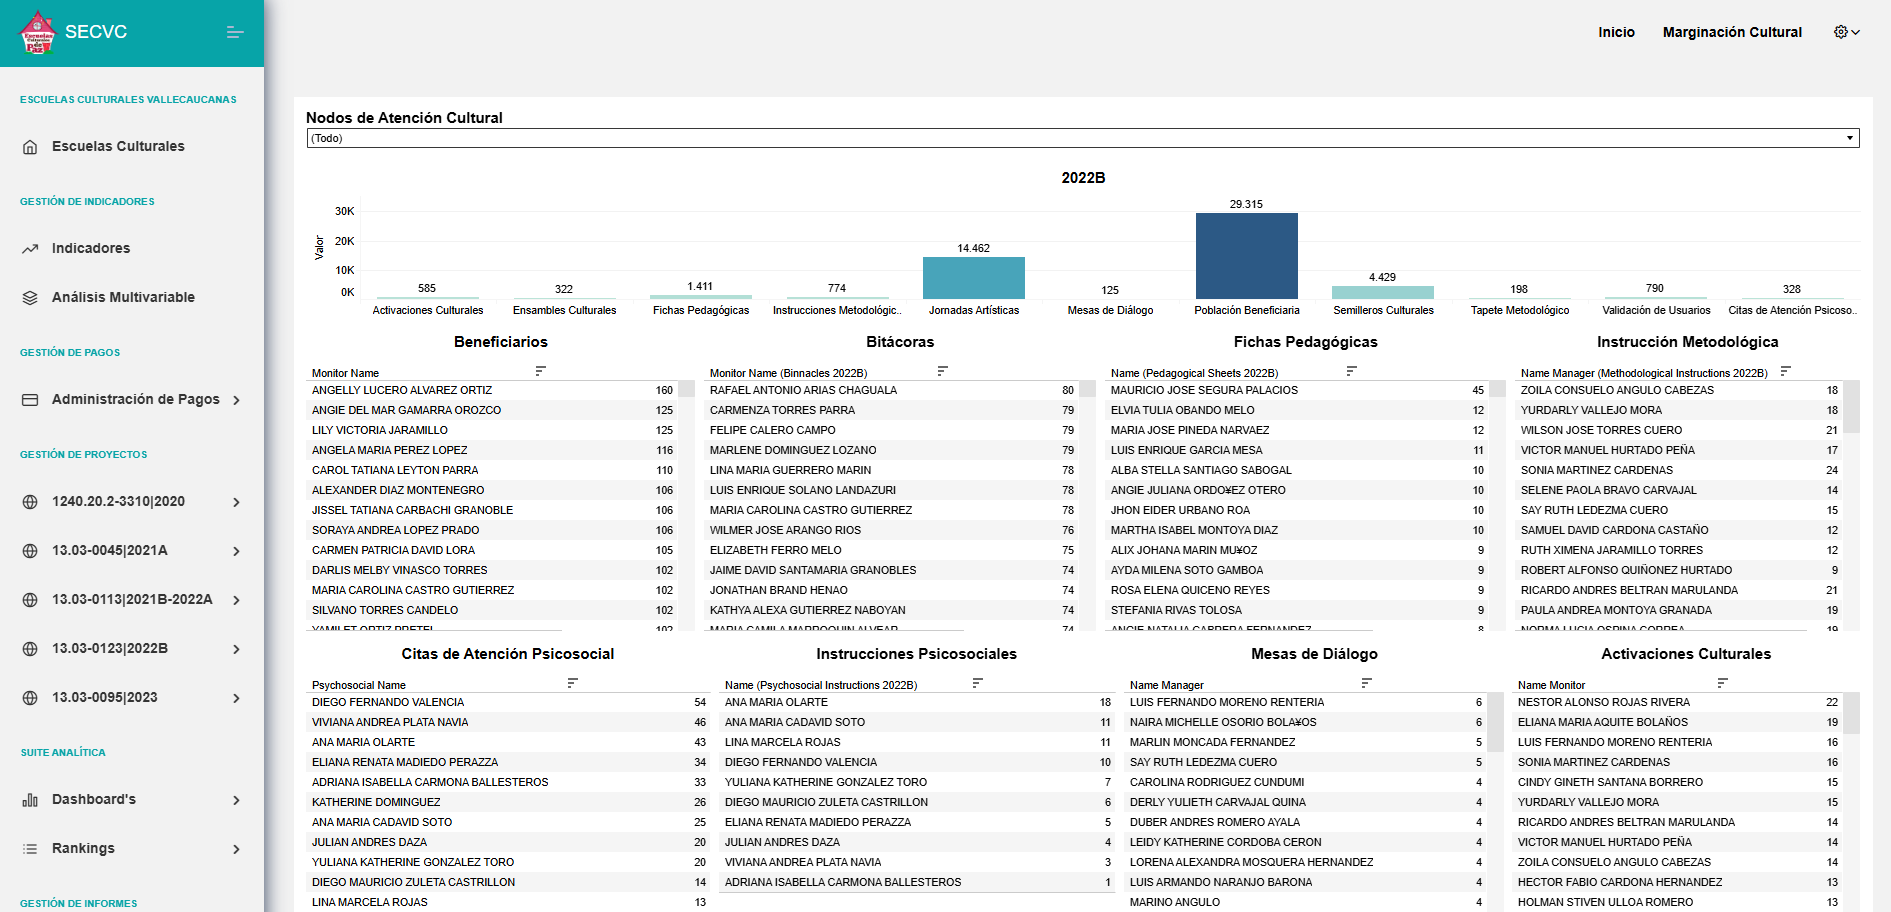
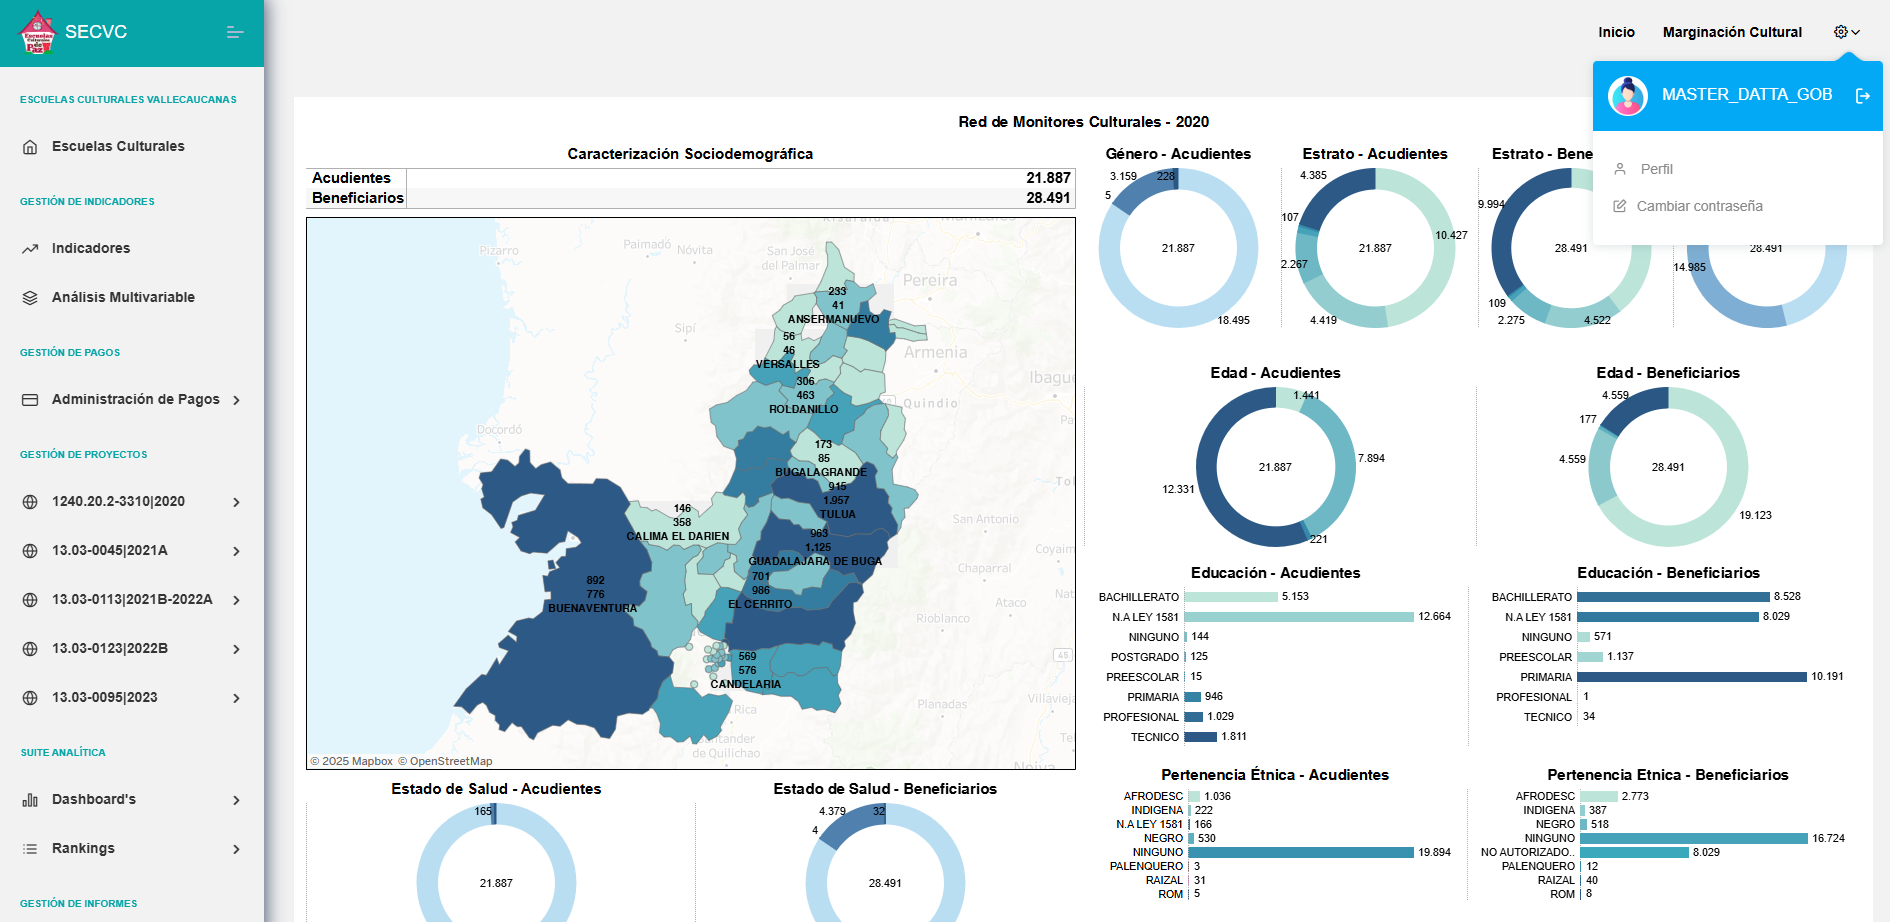
Actualizando portfolium

diff --git a/monitoring-contracts.html b/monitoring-contracts.html
@@ -153,19 +153,15 @@
               <div class="swiper-wrapper align-items-center">
 
                 <div class="swiper-slide">
-                  <img src="assets/img/portfolio/expb1.png" alt="" class="bi bi-zoom-in">
+                  <img src="assets/img/portfolio/monitor1.png" alt="" class="bi bi-zoom-in">
                 </div>
 
                 <div class="swiper-slide">
-                  <img src="assets/img/portfolio/expb2.png" alt="" class="bi bi-zoom-in">
+                  <img src="assets/img/portfolio/monitor2.png" alt="" class="bi bi-zoom-in">
                 </div>
 
                 <div class="swiper-slide">
-                  <img src="assets/img/portfolio/expb3.png" alt="" class="bi bi-zoom-in">
-                </div>
-
-                <div class="swiper-slide">
-                  <img src="assets/img/portfolio/expb4.png" alt="" class="bi bi-zoom-in">
+                  <img src="assets/img/portfolio/monitor3.png" alt="" class="bi bi-zoom-in">
                 </div>
 
               </div>
@@ -175,12 +171,11 @@
 
           <div class="col-lg-4">
             <div class="portfolio-info" data-aos="fade-up" data-aos-delay="200">
-              <h3>Sistema Estadístico Cultural del Valle del Cauca</h3>
+              <h3>Seguimiento y Control - Contratistas INCOLBALLET</h3>
               <ul>
-                <li><strong>Categoría</strong>: Data Analytics</li>
-                <li><strong>Cliente</strong>: Secretaría de Cultura - Gob.</li>
-                <li><strong>Fecha Proyecto</strong>: 30 Junio, 2024</li>
-                <li><strong>URL</strong>: <a href="#">www.example.com</a></li>
+                <li><strong>Categoría</strong>: Monitoring & Reporting</li>
+                <li><strong>Cliente</strong>: INCOLBALLET.</li>
+                <li><strong>Fecha Proyecto</strong>: 30 Enero, 2025</li>
               </ul>
             </div>
             <div class="portfolio-description" data-aos="fade-up" data-aos-delay="300">

diff --git a/index.html b/index.html
@@ -565,7 +565,7 @@
                 <div class="portfolio-info">
                   <h4>Looker Studio</h4>
                   <p>Seguimiento y Monitoreo a Contratistas</p>
-                  <a href="assets/img/portfolio/branding-1.png" title="Branding 1" data-gallery="portfolio-gallery-branding" class="glightbox preview-link"><i class="bi bi-zoom-in"></i></a>
+                  <a href="assets/img/portfolio/monitor1.png" title="Branding 1" data-gallery="portfolio-gallery-branding" class="glightbox preview-link"><i class="bi bi-zoom-in"></i></a>
                   <a href="monitoring-contracts.html" title="More Details" class="details-link"><i class="bi bi-link-45deg"></i></a>
                 </div>
               </div>
